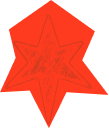
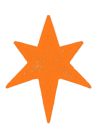
Vortex portal, orange pointer cursor and mobile fixes
- About statement centred
- Portal text removed: posters now spiral into a black hole inside a
  chalk-edged circle; OTHER/SIDE letters bend toward the portal as
  the cursor nears and get sucked in on click
- Pointer cursor recoloured orange, keeping the chalk texture
- Grain overlay is static; liquid hover effects removed from projects
- Mobile: Other Side scrolls up/down in two columns; footer links are
  centred; touching the footer draws (or erases on the mark) instead
  of scrolling the page

Claude-Session: https://claude.ai/code/session_01StBeBgZwJ8KteQWjpiTuwY

diff --git a/index.html b/index.html
@@ -90,9 +90,9 @@ header.fall .hc{transform:translate(var(--fx),calc(100svh + 40px)) rotate(var(--
 
 
 /* about */
-.about{position:relative;z-index:6;min-height:100svh;padding-block:clamp(140px,20vw,320px);display:grid;grid-template-columns:repeat(4,minmax(0,1fr));align-content:center;gap:16px;color:#fff}
+.about{position:relative;z-index:6;min-height:100svh;padding-block:clamp(140px,20vw,320px);display:grid;grid-template-columns:minmax(0,1fr);align-content:center;justify-items:center;gap:16px;color:#fff;text-align:center}
 .about .lbl{color:rgba(255,255,255,.7)}
-.statement{grid-column:2/5;font:400 clamp(28px,4.4vw,72px)/.98 var(--cond);margin:0;text-wrap:balance}
+.statement{grid-column:1/-1;font:400 clamp(28px,4.4vw,72px)/.98 var(--cond);margin:0;text-wrap:balance}
 .statement .ln{display:block;overflow:hidden}
 .statement .ln>i{display:block;font-style:normal;transform:translateY(100%);transition:transform 1s cubic-bezier(.2,.8,.2,1)}
 .statement.in .ln>i{transform:none}
@@ -114,7 +114,7 @@ header.fall .hc{transform:translate(var(--fx),calc(100svh + 40px)) rotate(var(--
 .row:hover .arr{transform:translateX(-1.2vw) rotate(-45deg);color:var(--bk)}
 #peek{position:fixed;left:0;top:0;z-index:15;width:clamp(200px,20vw,320px);aspect-ratio:4/5;pointer-events:none;border-radius:2px;overflow:hidden;opacity:0;transform:translate(-50%,-50%) scale(.6);transition:opacity .3s,transform .4s cubic-bezier(.2,.8,.2,1)}
 #peek.on{opacity:1}
-#peek .tile{position:absolute;inset:0;filter:url(#liquid)}
+#peek .tile{position:absolute;inset:0}
 .morph{position:fixed;z-index:41;overflow:hidden;pointer-events:none;border-radius:2px}
 .morph>*{width:100%;height:100%;object-fit:cover;display:block}
 
@@ -126,7 +126,7 @@ footer{position:relative;min-height:100svh;overflow:hidden;padding-block:72px 0}
 .fsoc{display:flex;gap:28px;flex-wrap:wrap;justify-content:center}
 .flogo{position:absolute;left:50%;bottom:0;width:min(56vw,calc(72svh*1.26));transform:translate(-50%,var(--rise,0%));will-change:transform;pointer-events:none;user-select:none}
 .flogo img{display:block;width:100%;height:auto}
-@media(max-width:700px){.ftop{grid-template-columns:1fr 1fr}.fsoc{grid-column:1/-1;grid-row:2;justify-content:flex-start;gap:14px 22px;margin-top:20px}.flogo{width:92vw}}
+@media(max-width:700px){.ftop{grid-template-columns:1fr 1fr}.fsoc{grid-column:1/-1;grid-row:2;justify-content:center;gap:14px 22px;margin-top:20px}.flogo{width:92vw}}
 
 @media(hover:none){#peek{display:none}}
 
@@ -244,8 +244,8 @@ body.lock{overflow:hidden}
 .gate-title{position:absolute;inset:0;display:flex;align-items:center;justify-content:space-between;pointer-events:none;font:400 clamp(48px,11vw,210px)/.9 var(--cond);color:var(--wh)}
 .portal{position:relative;z-index:2;width:clamp(150px,17vw,260px);aspect-ratio:1;border-radius:50%;border:0;padding:0;background:var(--wh);cursor:pointer;overflow:hidden;transition:transform .6s cubic-bezier(.2,.8,.2,1),box-shadow .6s;will-change:transform}
 .portal canvas{position:absolute;inset:0;width:100%;height:100%}
-.portal span{position:absolute;inset:0;display:grid;place-items:center;font:400 clamp(26px,2.6vw,40px)/1 var(--cond);color:var(--bk);letter-spacing:.02em}
-.portal:hover{box-shadow:0 0 0 14px rgba(242,242,238,.14)}
+.portal{filter:url(#chalkMask)}
+.gate-title .gc{display:inline-block;will-change:transform;transform-origin:50% 60%}
 .gate-foot{display:flex;justify-content:space-between;gap:16px;color:var(--grey)}
 main.away,footer.away,.gate.away{transform:scale(.93);filter:brightness(.4);transition:transform 1s cubic-bezier(.77,0,.18,1),filter 1s}
 main,footer,.gate{transition:transform 1s cubic-bezier(.77,0,.18,1),filter 1s}
@@ -282,8 +282,7 @@ main,footer,.gate{transition:transform 1s cubic-bezier(.77,0,.18,1),filter 1s}
 @media(max-width:700px){.lb{grid-template-columns:1fr;align-content:center}.lb .big{height:58svh}}
 
 /* ====== SISTEM KAPUR ====== */
-#grain{position:fixed;inset:-50%;z-index:70;pointer-events:none;opacity:.07;background-size:220px 220px;animation:grain .9s steps(6) infinite}
-@keyframes grain{0%{transform:translate(0,0)}20%{transform:translate(-7%,4%)}40%{transform:translate(5%,-6%)}60%{transform:translate(-3%,8%)}80%{transform:translate(8%,2%)}100%{transform:translate(0,0)}}
+#grain{position:fixed;inset:0;z-index:70;pointer-events:none;opacity:.07;background-size:220px 220px}
 .svgdefs{position:absolute;width:0;height:0;overflow:hidden}
 .bclip{position:absolute;inset:0;overflow:hidden}
 #wipe{position:fixed;inset:-48px;z-index:40;pointer-events:none;filter:url(#chalkMask)}
@@ -303,7 +302,8 @@ main,footer,.gate{transition:transform 1s cubic-bezier(.77,0,.18,1),filter 1s}
 #cur.on .p{opacity:1}#cur.on .d{opacity:0}
 @media(hover:none),(pointer:coarse){#cur{display:none}}
 /* papan tulis di footer */
-#chalkCv{position:absolute;inset:0;z-index:1;width:100%;height:100%;cursor:crosshair}
+#chalkCv{position:absolute;inset:0;z-index:1;width:100%;height:100%;cursor:crosshair;touch-action:none}
+.ftop{touch-action:pan-y}
 .flogo canvas{display:block;width:100%;height:auto}
 .fhint{position:absolute;left:max(2vw,16px);bottom:18px;z-index:3;display:flex;gap:18px;align-items:center;color:var(--grey)}
 .fhint button{background:none;border:0;padding:0;color:var(--wh);font:inherit;letter-spacing:inherit;text-transform:inherit;cursor:pointer;min-height:24px}
@@ -318,7 +318,6 @@ main,footer,.gate{transition:transform 1s cubic-bezier(.77,0,.18,1),filter 1s}
 @keyframes snd{0%,100%{opacity:.35}50%{opacity:1}}
 
 @media(prefers-reduced-motion:reduce){
-  #grain{animation:none}
   *{transition:none!important;scroll-behavior:auto!important}
   .name .ch,.statement .ln>i,.comp .t>i{transform:none}
 }
@@ -336,15 +335,6 @@ main,footer,.gate{transition:transform 1s cubic-bezier(.77,0,.18,1),filter 1s}
     <feTurbulence type="fractalNoise" baseFrequency=".03 .05" numOctaves="4" seed="3" result="n"/>
     <feDisplacementMap id="chalkBleedMap" in="SourceAlpha" in2="n" scale="0" xChannelSelector="R" yChannelSelector="G" result="a"/>
     <feComposite in="SourceGraphic" in2="a" operator="in"/>
-  </filter>
-  <!-- cairan: untuk pratinjau hover & gambar studi kasus -->
-  <filter id="liquid" x="-10%" y="-10%" width="120%" height="120%">
-    <feTurbulence id="liqT" type="fractalNoise" baseFrequency=".008 .02" numOctaves="2" seed="2" result="n"/>
-    <feDisplacementMap id="liqMap" in="SourceGraphic" in2="n" scale="0" xChannelSelector="R" yChannelSelector="B"/>
-  </filter>
-  <filter id="liquid2" x="-5%" y="-5%" width="110%" height="110%">
-    <feTurbulence type="fractalNoise" baseFrequency=".006 .018" numOctaves="2" seed="5" result="n"/>
-    <feDisplacementMap id="liqMap2" in="SourceGraphic" in2="n" scale="0" xChannelSelector="R" yChannelSelector="B"/>
   </filter>
 </svg>
 <div id="grain" aria-hidden="true"></div>
@@ -416,7 +406,7 @@ main,footer,.gate{transition:transform 1s cubic-bezier(.77,0,.18,1),filter 1s}
 <section class="gate pad" id="other" aria-label="Other work">
   <div class="gate-mid">
     <div class="gate-title" aria-hidden="true"><span>Other</span><span>side</span></div>
-    <button class="portal" id="portal" aria-label="Enter the other dimension: posters and print"><canvas id="portalCv"></canvas><span>Enter</span></button>
+    <button class="portal" id="portal" aria-label="Enter the other dimension: posters and print"><canvas id="portalCv"></canvas></button>
   </div>
 </section>
 
@@ -600,16 +590,22 @@ const flogo=document.getElementById("flogo"),footEl=document.getElementById("con
      for(let k=0;k<n;k++){const a=Math.random()*6.283,rr=Math.random()**.6*r;g.globalAlpha=alpha*(.35+Math.random()*.65);
        const sz=dot*(1+Math.random()*1.6);g.fillRect(x+Math.cos(a)*rr,y+Math.sin(a)*rr,sz,sz)}}g.globalAlpha=1};
  const local=(el,e)=>{const r=el.getBoundingClientRect();return [e.clientX-r.left,e.clientY-r.top]};
+ let touchErase=false;
  footEl.addEventListener("pointermove",e=>{if(e.target.closest(".ftop a,.fhint button"))return;
+   if(e.pointerType==="touch"&&!drawing&&!touchErase)return;
    const [bx,by]=local(cc,e);
    if(drawing&&last){cg.fillStyle="#f2f2ee";chalk(cg,last[0],last[1],bx,by,BRUSH,16,.9,3);SFX.scratch(Math.hypot(bx-last[0],by-last[1]))}
-   else if(ready){const [lx,ly]=local(lc,e),pl=last?last.l:null;lg.save();lg.globalCompositeOperation="destination-out";lg.fillStyle="#000";
+   else if(ready&&(e.pointerType!=="touch"||touchErase)){const [lx,ly]=local(lc,e),pl=last?last.l:null;lg.save();lg.globalCompositeOperation="destination-out";lg.fillStyle="#000";
      chalk(lg,pl?pl[0]:lx,pl?pl[1]:ly,lx,ly,BRUSH,16,1,3);lg.restore();
      if(pl)SFX.scratch(Math.hypot(lx-pl[0],ly-pl[1])*.4)}
    last=[bx,by];last.l=local(lc,e)},{passive:true});
  footEl.addEventListener("pointerleave",()=>{last=null;drawing=false});
- cc.addEventListener("pointerdown",e=>{if(e.pointerType==="touch")return;drawing=true;last=local(cc,e);last.l=local(lc,e)});
- addEventListener("pointerup",()=>{drawing=false});
+ /* mouse: hover menghapus, drag menggambar. Sentuh: mulai di atas logo = menghapus, di luar logo = menggambar */
+ cc.addEventListener("pointerdown",e=>{last=local(cc,e);last.l=local(lc,e);
+   if(e.pointerType==="touch"){const r=lc.getBoundingClientRect(),inLogo=e.clientX>=r.left&&e.clientX<=r.right&&e.clientY>=r.top&&e.clientY<=r.bottom;
+     touchErase=inLogo;drawing=!inLogo;try{cc.setPointerCapture(e.pointerId)}catch(_){}}else drawing=true});
+ addEventListener("pointerup",()=>{drawing=false;touchErase=false});
+ addEventListener("pointercancel",()=>{drawing=false;touchErase=false});
  document.getElementById("chalkClear")?.addEventListener("click",()=>{cg.clearRect(0,0,cc.width,cc.height);if(ready){lg.clearRect(0,0,lc.width,lc.height);lg.drawImage(img,0,0,flogo.clientWidth,flogo.clientWidth/1.259)}});
  
 
@@ -627,10 +623,7 @@ addEventListener("pointermove",e=>{mx=e.clientX;my=e.clientY});
 rows.addEventListener("pointerover",e=>{const r=e.target.closest(".row");if(!r)return;const p=projects[r.dataset.i];
   const i=+r.dataset.i;tile.innerHTML=p.shots&&p.shots[0]&&!p.shots[0].video?`<img src="${esc(p.shots[0].src)}" alt="" style="width:100%;height:100%;object-fit:cover">`:flatTile(p,i);peek.classList.add("on")});
 rows.addEventListener("pointerleave",()=>peek.classList.remove("on"));
-const liqMap=document.getElementById("liqMap"),liqT=document.getElementById("liqT");let liq=0,lt=0;
-const loop=()=>{const sp=Math.hypot(mx-px,my-py);px+=(mx-px)*.12;py+=(my-py)*.12;
-  liq+=(Math.min(80,sp*1.1)-liq)*.15;lt+=.02;
-  if(peek.classList.contains("on")){liqMap.setAttribute("scale",liq.toFixed(1));if(liq>1)liqT.setAttribute("baseFrequency",`${(.008+.002*Math.sin(lt)).toFixed(4)} ${(.02+.004*Math.cos(lt*1.3)).toFixed(4)}`)}
+const loop=()=>{px+=(mx-px)*.12;py+=(my-py)*.12;
   const tilt=Math.max(-12,Math.min(12,(mx-px)*.15));
   peek.style.transform=`translate(${px}px,${py}px) translate(-50%,-50%) rotate(${tilt}deg) scale(${peek.classList.contains("on")?1:.6})`;
   requestAnimationFrame(loop)};
@@ -716,36 +709,38 @@ const posterHTML=(a,i)=>{if(a.src)return `<img src="${esc(a.src)}" alt="${esc(a.
   return `<div class="pst" style="background:${bg};color:${fg}">${shape}<em style="${k===3?"color:"+fg:""}">No.${pad(i+1)}</em><i style="${k===3?"color:"+bg:""}">${a.year}</i><b style="${k===1||k===3?"mix-blend-mode:difference;color:#fff":""}">${title}</b></div>`};
 const dimEl=document.getElementById("odim"),plane=document.getElementById("plane"),lb=document.getElementById("lb"),lbBig=document.getElementById("lbBig"),lbMeta=document.getElementById("lbMeta");
 const mainEls=[document.querySelector("main"),document.querySelector("footer"),document.getElementById("other")];
-let dimOpen=false,dimBusy=false,lastPt={x:innerWidth/2,y:innerHeight/2},slots=[],TW=0,TH=0,cellW=0,cellH=0;
+let gateSuck=null,gateReset=null,dimOpen=false,dimBusy=false,lastPt={x:innerWidth/2,y:innerHeight/2},slots=[],TW=0,TH=0,cellW=0,cellH=0;
 addEventListener("pointerdown",e=>{lastPt={x:e.clientX,y:e.clientY}},true);
-const buildPlane=()=>{const vw=innerWidth,vh=innerHeight;cellW=Math.max(170,Math.min(300,vw*.2));cellH=cellW*1.95;
-  const cols=Math.ceil(vw/cellW)+2,rows=Math.ceil(vh/cellH)+2;TW=cols*cellW;TH=rows*cellH;
+let mobDim=false;
+const buildPlane=()=>{const vw=innerWidth,vh=innerHeight;mobDim=vw<700;
+  cellW=mobDim?vw/2:Math.max(170,Math.min(300,vw*.2));cellH=mobDim?cellW*1.7:cellW*1.95;
+  const cols=mobDim?2:Math.ceil(vw/cellW)+2,rows=Math.ceil(vh/cellH)+2;TW=cols*cellW;TH=rows*cellH;
   plane.innerHTML="";slots=[];let n=0;
   for(let r=0;r<rows;r++)for(let c=0;c<cols;c++){const ai=(n*5+r*3)%archive.length,a=archive[ai];n++;
-    const w=cellW*(.56+((c*7+r*3)%4)*.05),h=w*a.ratio;
+    const w=mobDim?cellW*.8:cellW*(.56+((c*7+r*3)%4)*.05),h=Math.min(w*a.ratio,cellH*.78);
     const el=document.createElement("div");el.className="it";el.dataset.i=ai;el.style.width=w+"px";
     el.innerHTML=`<div class="pic" style="height:${h}px;--fs:${(w*.2).toFixed(0)}px">${posterHTML(a,ai)}</div><div class="cap"><span>${esc(a.title)}</span><span>${a.year}</span></div>`;
     plane.appendChild(el);
-    slots.push({el,w,h:h+24,x:c*cellW+(cellW-w)/2+((r*13+c*29)%23-11),y:r*cellH+(c%2?cellH*.5:0)+((c*17+r*7)%21-10),d:.85+((c*5+r*11)%7)/20})}};
+    slots.push({el,w,h:h+24,x:c*cellW+(cellW-w)/2+(mobDim?0:((r*13+c*29)%23-11)),y:r*cellH+(c%2?cellH*.5:0)+((c*17+r*7)%21-10),d:.85+((c*5+r*11)%7)/20})}};
 /* gerak kanvas: drag + roda + inersia, miring mengikuti kecepatan */
 let ox=0,oy=0,tx=0,ty=0,vx=0,vy=0,drag=null,raf=0;
 const md=(a,m)=>((a%m)+m)%m;
 const frame=()=>{if(!drag){tx+=vx;ty+=vy;vx*=.93;vy*=.93}
   const px0=ox,py0=oy;ox+=(tx-ox)*.12;oy+=(ty-oy)*.12;
   const sx=Math.max(-10,Math.min(10,(ox-px0)*.25)),sy=Math.max(-10,Math.min(10,(oy-py0)*.25));
-  plane.style.transform=`skew(${(-sx*.6).toFixed(2)}deg,${(-sy*.4).toFixed(2)}deg)`;
+  plane.style.transform=mobDim?`skewY(${(-sy*.25).toFixed(2)}deg)`:`skew(${(-sx*.6).toFixed(2)}deg,${(-sy*.4).toFixed(2)}deg)`;
   /* lensa: makin ke tengah makin besar, makin cepat makin cembung */
   const spd=Math.hypot(ox-px0,oy-py0),vw2=innerWidth/2,vh2=innerHeight/2,lens=.14+Math.min(.22,spd*.012);
-  for(const s of slots){const X=md(s.x+ox*s.d,TW)-cellW,Y=md(s.y+oy*s.d,TH)-cellH;
-    const dx=(X+s.w/2-vw2)/vw2,dy=(Y+s.h/2-vh2)/vh2,r2=Math.min(2,dx*dx+dy*dy),sc=Math.max(.62,1+lens-lens*1.5*r2);
+  for(const s of slots){const X=mobDim?s.x:md(s.x+ox*s.d,TW)-cellW,Y=md(s.y+oy*(mobDim?1:s.d),TH)-cellH;
+    const dx=(X+s.w/2-vw2)/vw2,dy=(Y+s.h/2-vh2)/vh2,r2=Math.min(2,dx*dx+dy*dy),sc=mobDim?1:Math.max(.62,1+lens-lens*1.5*r2);
     s.el.style.transform=`translate3d(${(X+dx*vw2*(sc-1)*.35).toFixed(1)}px,${(Y+dy*vh2*(sc-1)*.35).toFixed(1)}px,0) scale(${sc.toFixed(3)})`}
 
   if(dimOpen)raf=requestAnimationFrame(frame)};
-dimEl.addEventListener("pointerdown",e=>{if(e.target.closest(".dexit,.lb"))return;drag={x:e.clientX,y:e.clientY,sx:e.clientX,sy:e.clientY,t:performance.now()};vx=vy=0;dimEl.classList.add("grabbing");dimEl.setPointerCapture(e.pointerId)});
-dimEl.addEventListener("pointermove",e=>{if(!drag)return;const dx=e.clientX-drag.x,dy=e.clientY-drag.y;tx+=dx*1.2;ty+=dy*1.2;vx=dx*.6;vy=dy*.6;drag.x=e.clientX;drag.y=e.clientY});
+dimEl.addEventListener("pointerdown",e=>{if(e.target.closest(".dexit,.lb"))return;drag={x:e.clientX,y:e.clientY,sx:e.clientX,sy:e.clientY,t:performance.now()};vx=vy=0;dimEl.classList.add("grabbing");try{dimEl.setPointerCapture(e.pointerId)}catch(_){}});
+dimEl.addEventListener("pointermove",e=>{if(!drag)return;const dx=mobDim?0:e.clientX-drag.x,dy=e.clientY-drag.y;tx+=dx*1.2;ty+=dy*1.2;vx=dx*.6;vy=dy*.6;drag.x=e.clientX;drag.y=e.clientY});
 dimEl.addEventListener("pointerup",e=>{if(!drag)return;const moved=Math.hypot(e.clientX-drag.sx,e.clientY-drag.sy);dimEl.classList.remove("grabbing");drag=null;
   if(moved<6){const it=document.elementsFromPoint(e.clientX,e.clientY).find(n=>n.classList&&n.classList.contains("it"));if(it)openLb(+it.dataset.i)}});
-dimEl.addEventListener("wheel",e=>{if(lb.classList.contains("on"))return;e.preventDefault();vx-=e.deltaX*.08;vy-=e.deltaY*.08},{passive:false});
+dimEl.addEventListener("wheel",e=>{if(lb.classList.contains("on"))return;e.preventDefault();if(!mobDim)vx-=e.deltaX*.08;vy-=e.deltaY*.08},{passive:false});
 const openLb=i=>{const a=archive[i];lbBig.style.aspectRatio=`1/${a.ratio}`;lbBig.innerHTML=posterHTML(a,i);
   lbBig.style.setProperty("--fs",Math.round(Math.min(innerHeight*.76/a.ratio,innerWidth*.6)*.2)+"px");
   lbMeta.innerHTML=`<span>No.${pad(i+1)} / ${pad(archive.length)}</span><h3>${esc(a.title)}</h3><span>${esc(a.type)}</span><span>${esc(a.format)}</span><span>${a.year}</span><span style="opacity:.6">Click anywhere to close</span>`;lb.classList.add("on")};
@@ -754,8 +749,9 @@ const EIO2="cubic-bezier(.77,0,.18,1)";
 const openDim=async()=>{if(dimOpen||dimBusy)return;dimBusy=true;
   const p=document.getElementById("portal").getBoundingClientRect();const fromPortal=p.top<innerHeight&&p.bottom>0;
   const o=fromPortal?{x:p.left+p.width/2,y:p.top+p.height/2}:lastPt;
-  buildPlane();ox=oy=tx=ty=0;vx=-2;vy=-1.2;dimOpen=true;
+  buildPlane();ox=oy=tx=ty=0;vx=mobDim?0:-2;vy=-1.2;dimOpen=true;
   lenis?.stop();document.body.classList.add("lock");SFX.whoosh(true);
+  if(fromPortal&&gateSuck)await gateSuck();
   for(const m of mainEls){m.style.transformOrigin=`${o.x}px ${o.y+scrollY-m.getBoundingClientRect().top-scrollY}px`;m.classList.add("away")}
   const R=Math.hypot(Math.max(o.x,innerWidth-o.x),Math.max(o.y,innerHeight-o.y));
   document.getElementById("dcount").textContent=pad(archive.length)+" works";
@@ -779,22 +775,38 @@ const closeDim=async()=>{if(!dimOpen||dimBusy)return;dimBusy=true;lb.classList.r
   ink.getAnimations().forEach(a=>a.cancel());ink.style.opacity=1;ink.style.visibility="visible";
   await new Promise(r=>requestAnimationFrame(r));dimEl.classList.remove("open");
   await inkC.animate([{clipPath:`circle(${R+O*2}px at ${o.x+O}px ${o.y+O}px)`},{clipPath:`circle(${p.width/2}px at ${o.x+O}px ${o.y+O}px)`}],{duration:reduce?1:900,easing:EIO2,fill:"forwards"}).finished;
-  ink.style.visibility="hidden";dimOpen=false;cancelAnimationFrame(raf);document.body.classList.remove("lock");lenis?.start();dimBusy=false};
+  ink.style.visibility="hidden";dimOpen=false;gateReset&&gateReset();cancelAnimationFrame(raf);document.body.classList.remove("lock");lenis?.start();dimBusy=false};
 document.getElementById("portal").addEventListener("click",()=>{location.hash="other-dimension"});
 document.getElementById("dexit").addEventListener("click",()=>{location.hash="other"});
-/* jendela kecil di dalam tombol portal: poster-poster melayang */
-{const cv=document.getElementById("portalCv"),g=cv.getContext("2d"),btn=document.getElementById("portal");let hov=0,t=0,on=false;
+/* ====== PORTAL: pusaran poster tersedot ke titik hitam; huruf OTHER/SIDE tertarik gravitasi ====== */
+{const cv=document.getElementById("portalCv"),g=cv.getContext("2d"),btn=document.getElementById("portal"),gate=document.getElementById("other");
+ let hov=0,t=0,on=false,sp=.4,hole=.06,suck=0;
  const size=()=>{const d=Math.min(2,devicePixelRatio||1);cv.width=cv.clientWidth*d;cv.height=cv.clientHeight*d;g.setTransform(d,0,0,d,0,0)};
  new ResizeObserver(size).observe(cv);
- const io2=new IntersectionObserver(es=>{on=es[0].isIntersecting;if(on)requestAnimationFrame(tick)});io2.observe(btn);
+ /* huruf judul dipecah agar bisa ditarik satu-satu */
+ const chars=[];for(const w of gate.querySelectorAll(".gate-title span")){const tx=w.textContent;w.innerHTML=[...tx].map(c=>`<span class="gc">${c}</span>`).join("");chars.push(...w.querySelectorAll(".gc"))}
+ const st=chars.map(()=>({x:0,y:0,sx:1,r:0}));
+ let mx=-1e4,my=-1e4;gate.addEventListener("pointermove",e=>{mx=e.clientX;my=e.clientY},{passive:true});gate.addEventListener("pointerleave",()=>{mx=my=-1e4});
  btn.addEventListener("pointerenter",()=>hov=1);btn.addEventListener("pointerleave",()=>{hov=0;btn.style.transform=""});
- btn.addEventListener("pointermove",e=>{const r=btn.getBoundingClientRect(),dx=e.clientX-r.left-r.width/2,dy=e.clientY-r.top-r.height/2;btn.style.transform=`translate(${dx*.18}px,${dy*.18}px) scale(1.06)`});
- let sp=.4;
- function tick(){if(!on)return;const W=cv.clientWidth,H=cv.clientHeight;sp+=((hov?2.2:.4)-sp)*.06;t+=sp;g.clearRect(0,0,W,H);
-   for(let i=0;i<14;i++){const a=archive[i%archive.length],w=W*.22,h=w*a.ratio;const x=((i*W*.31+t*(.6+i%3*.2))%(W+w*2))-w,y=((i*H*.43+t*.35*(1+i%2))%(H+h*2))-h;
-     g.fillStyle=a.c[0];g.fillRect(x,y,w,h);g.fillStyle=a.c[1];g.fillRect(x+w*.1,y+h*.75,w*.6,h*.08)}
-   if(!reduce)requestAnimationFrame(tick)}
-}
+ btn.addEventListener("pointermove",e=>{const r=btn.getBoundingClientRect(),dx=e.clientX-r.left-r.width/2,dy=e.clientY-r.top-r.height/2;btn.style.transform=`translate(${dx*.18}px,${dy*.18}px) scale(1.07)`});
+ new IntersectionObserver(es=>{on=es[0].isIntersecting;if(on)requestAnimationFrame(tick)}).observe(gate);
+ function tick(){if(!on&&suck===0)return;const W=cv.clientWidth,H=cv.clientHeight,cx=W/2,cy=H/2,R=Math.hypot(W,H)/2;
+   sp+=((hov?3.2:.6)+suck*8-sp)*.06;hole+=((hov?.16:.07)+suck*.5-hole)*.08;t+=sp*.004;
+   g.fillStyle="#f2f2ee";g.fillRect(0,0,W,H);
+   for(let i=0;i<26;i++){const a=archive[i%archive.length],u=(t*(.8+(i%5)*.07)+i/26)%1,r=1-u;
+     const ang=i*2.399+u*u*9+t*2,d=r*R*1.05,x=cx+Math.cos(ang)*d,y=cy+Math.sin(ang)*d,w=W*.2*(.15+.85*r),h=w*a.ratio;
+     g.save();g.translate(x,y);g.rotate(ang+1.57*u);g.globalAlpha=Math.min(1,r*3);g.fillStyle=a.c[0];g.fillRect(-w/2,-h/2,w,h);g.fillStyle=a.c[1];g.fillRect(-w/2+w*.1,h*.22,w*.6,h*.08);g.restore()}
+   g.globalAlpha=1;const hr=W*hole,grd=g.createRadialGradient(cx,cy,0,cx,cy,hr*2.2);grd.addColorStop(0,"rgba(10,10,10,1)");grd.addColorStop(.45,"rgba(10,10,10,.95)");grd.addColorStop(1,"rgba(10,10,10,0)");
+   g.fillStyle=grd;g.beginPath();g.arc(cx,cy,hr*2.2,0,6.283);g.fill();
+   /* gravitasi pada huruf */
+   const br=btn.getBoundingClientRect(),pcx=br.left+br.width/2,pcy=br.top+br.height/2,near=Math.max(suck,mx<-1e3?0:Math.max(0,1-Math.hypot(mx-pcx,my-pcy)/(innerWidth*.42)));
+   chars.forEach((c,i)=>{const s0=st[i],cr=c.getBoundingClientRect(),dx=pcx-(cr.left+cr.width/2-s0.x),dy=pcy-(cr.top+cr.height/2-s0.y),dist=Math.hypot(dx,dy)||1;
+     const pull=reduce?0:near*(suck?1:.32)*Math.min(1,320/dist+.25);
+     s0.x+=(dx*pull-s0.x)*.12;s0.y+=(dy*pull*.6-s0.y)*.12;s0.sx+=((1+pull*1.4*(suck?0:1))*(1-suck)+(suck?.02:0)-s0.sx)*.12;s0.r+=((dx>0?1:-1)*pull*18-s0.r)*.12;
+     c.style.transform=`translate(${s0.x.toFixed(1)}px,${s0.y.toFixed(1)}px) scale(${s0.sx.toFixed(3)},${(1-pull*.25).toFixed(3)}) rotate(${s0.r.toFixed(1)}deg)`});
+   if(!reduce||suck)requestAnimationFrame(tick)}
+ gateSuck=()=>new Promise(res=>{suck=1;if(!on)requestAnimationFrame(tick);setTimeout(res,reduce?0:520)});
+ gateReset=()=>{suck=0}}
 let shotIO=null,busy=false,openIdx=-1,caseLenis=null;
 const wait=ms=>new Promise(r=>setTimeout(r,reduce?0:ms));
 const showCase=async i=>{if(busy)return;busy=true;
@@ -819,14 +831,7 @@ const showCase=async i=>{if(busy)return;busy=true;
     busy=false;route();return}
   wipe.className="cover out";await wait(50);requestAnimationFrame(()=>caseEl.classList.add("in"));
   await wait(700);wipe.className="";busy=false;route()};
-/* gambar studi kasus beriak seperti cairan mengikuti kursor & scroll */
-{let hov=null,lx=0,ly=0,amt=0,lastTop=0;const map2=document.getElementById("liqMap2");
- caseEl.addEventListener("pointermove",e=>{const sh=e.target.closest(".shot");if(sh!==hov){if(hov)hov.style.filter="";hov=sh}
-   const sp=Math.hypot(e.clientX-lx,e.clientY-ly);lx=e.clientX;ly=e.clientY;amt=Math.min(55,amt+sp*.35)},{passive:true});
- caseEl.addEventListener("pointerleave",()=>{if(hov)hov.style.filter="";hov=null});
- const lp=()=>{if(openIdx>=0&&!reduce){const st=caseEl.scrollTop,sv=Math.abs(st-lastTop);lastTop=st;amt=Math.min(55,amt+sv*.25);amt*=.9;
-   if(hov){if(amt>.6){hov.style.filter="url(#liquid2)";map2.setAttribute("scale",amt.toFixed(1))}else hov.style.filter=""}}requestAnimationFrame(lp)};
- requestAnimationFrame(lp)}
+
 const hideCase=async()=>{if(openIdx<0||busy)return;busy=true;
   wipe.className="cover";await wait(700);
   caseLenis?.destroy();caseLenis=null;

diff --git a/README.md b/README.md
@@ -48,13 +48,13 @@ Selama `src` kosong / jumlah gambar `0`, website memakai placeholder, jadi tidak
 ## Fitur interaktif
 
 - **Intro infinite zoom**: kamera menembus kartu proyek dan mendarat di foto potret.
-- **Sistem kapur**: grain di seluruh layar; foto, tirai studi kasus, dan portal membuka dengan tepi bergerigi.
-- **Footer papan tulis**: kursor menghapus logogram, drag untuk menggambar kapur (kuas sama besar). Logo kembali lewat tombol *Restore mark*.
-- **Pratinjau & gambar cair**: pratinjau di daftar Work dan gambar studi kasus beriak mengikuti kursor.
+- **Sistem kapur**: grain diam di seluruh layar; foto, tirai studi kasus, dan portal membuka dengan tepi bergerigi.
+- **Footer papan tulis**: kursor menghapus logogram, drag untuk menggambar kapur (kuas sama besar). Di HP: sentuh logo untuk menghapus, di luar logo untuk menggambar (footer tidak ikut ter-scroll). Logo kembali utuh saat halaman dimuat ulang.
 - **Morph**: klik proyek, pratinjau berubah menjadi gambar pembuka studi kasus.
 - **Marks**: garis konstruksi, scale test (16 px sampai penuh), dan invert.
-- **Other Side**: kanvas tak berujung dengan lensa cembung.
-- **Cursor custom** (`img/cursor-default.png`, `img/cursor-pointer.png`): merah di elemen interaktif, berputar saat diam.
+- **Portal Other Side**: pusaran poster tersedot ke titik hitam; huruf OTHER/SIDE tertarik gravitasi dan tersedot saat portal diklik.
+- **Other Side**: kanvas tak berujung dengan lensa cembung; di HP dua kolom yang bergerak atas-bawah.
+- **Cursor custom** (`img/cursor-default.png`, `img/cursor-pointer.png`): oranye di elemen interaktif, berputar saat diam.
 - **Nav** jatuh berhamburan seperti serpihan kapur saat mentok di footer, kembali saat scroll naik.
 - **Suara** (default mati, ikon speaker di header): klik halus hanya saat hover cover proyek. Dibuat dengan WebAudio, tanpa file.
 - Semua animasi mati otomatis untuk pengunjung yang memilih *reduced motion*.
